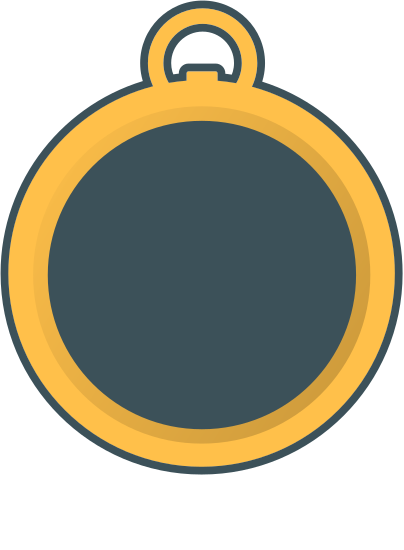
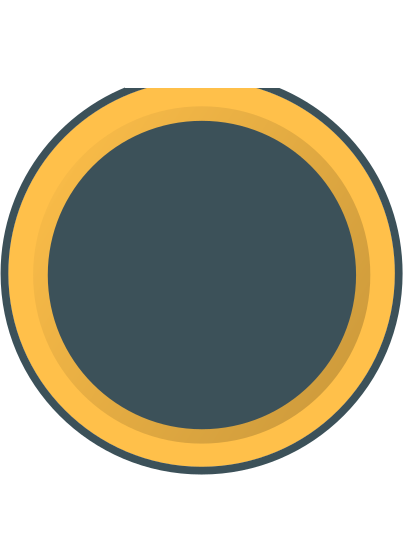
clock done

Changed region(s): [[0.3267, 0.0, 0.6832, 0.1855]]

diff --git a/Assets/Scripts/TimerAnimation.cs b/Assets/Scripts/TimerAnimation.cs
@@ -1,16 +1,32 @@
 using UnityEngine;
+using UnityEngine.UI;
 
 public class TimerAnimation : MonoBehaviour
 {
-    // Start is called once before the first execution of Update after the MonoBehaviour is created
-    void Start()
-    {
-        
-    }
 
-    // Update is called once per frame
-    void Update()
+
+    public Image blueImage; // Reference to the blue image
+
+    public Image greyImage; // Reference to the mask image
+
+    // time is 0 - 1
+    public void updateDisplay(float time)
     {
-        
+
+        // update the angles
+        blueImage.fillAmount = time;
+
+        if (time != 0)
+        {
+            time += 0.024f;
+            if (time > 1)
+            {
+                time = 1;
+            }
+        }
+
+
+        greyImage.fillAmount = time;
+
     }
 }

diff --git a/Assets/Scripts/TimerController.cs b/Assets/Scripts/TimerController.cs
@@ -20,6 +20,8 @@ public class GameTimer : MonoBehaviour
     public bool isGameOver = false;
     public GameManager gameManager;
 
+    public TimerAnimation timerAnimation; // Reference to the TimerAnimation script
+
     void Awake()
     {
         enabled = false; // Disable the script until game starts
@@ -50,6 +52,10 @@ public class GameTimer : MonoBehaviour
 
         // Update the timer UI
         backWallUI.SetTimer(Mathf.CeilToInt(timeRemaining));
+
+        // Update the timer animation
+        float normalizedTime = timeRemaining / 59.01f; // Normalize time to a value between 0 and 1
+        timerAnimation.updateDisplay(normalizedTime); // Update the timer animation
     }
 
     public void EndGame()
